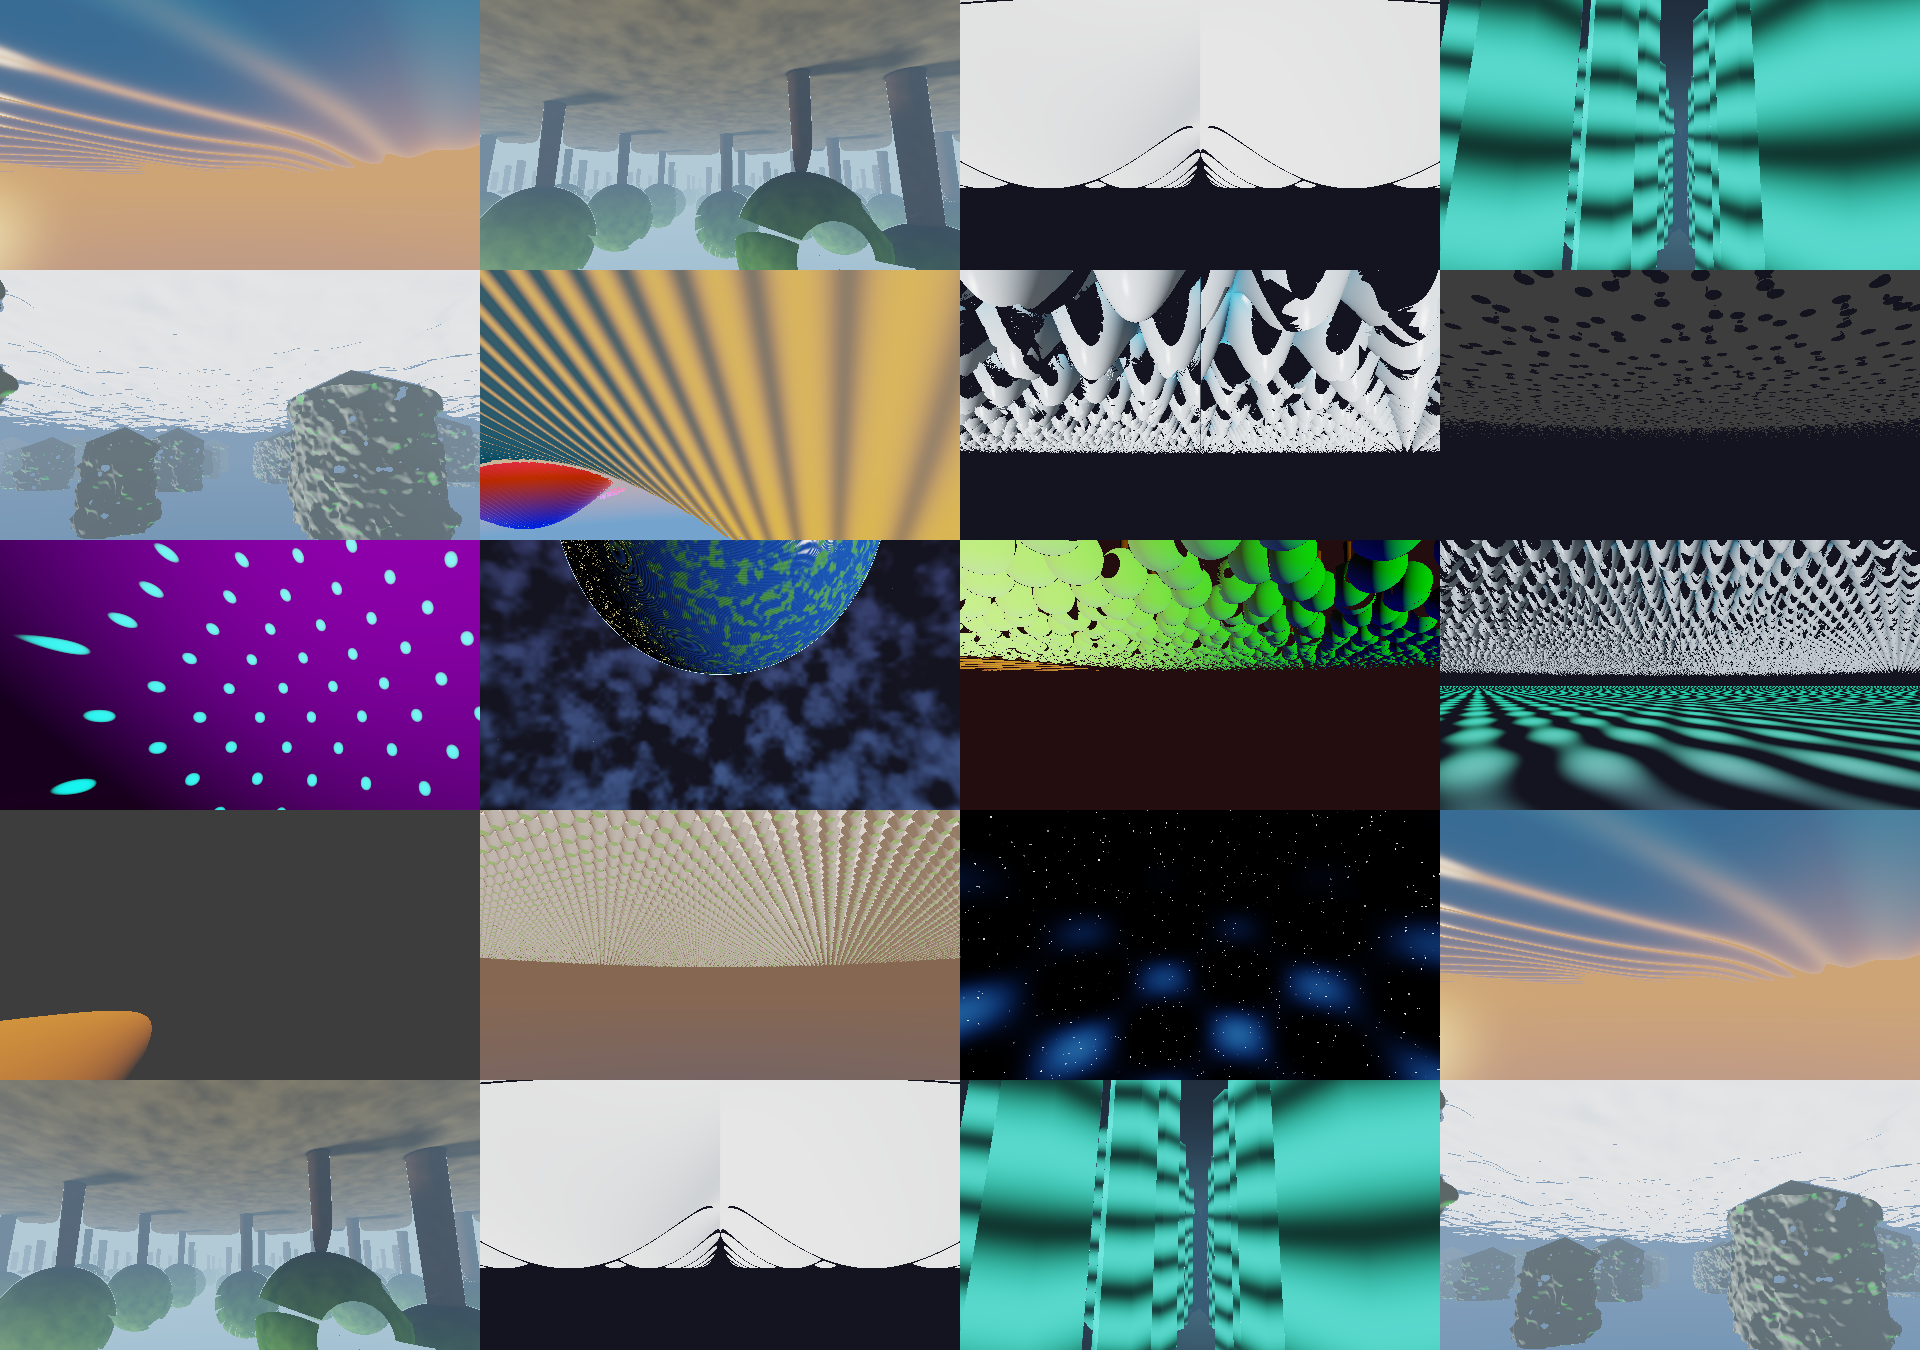
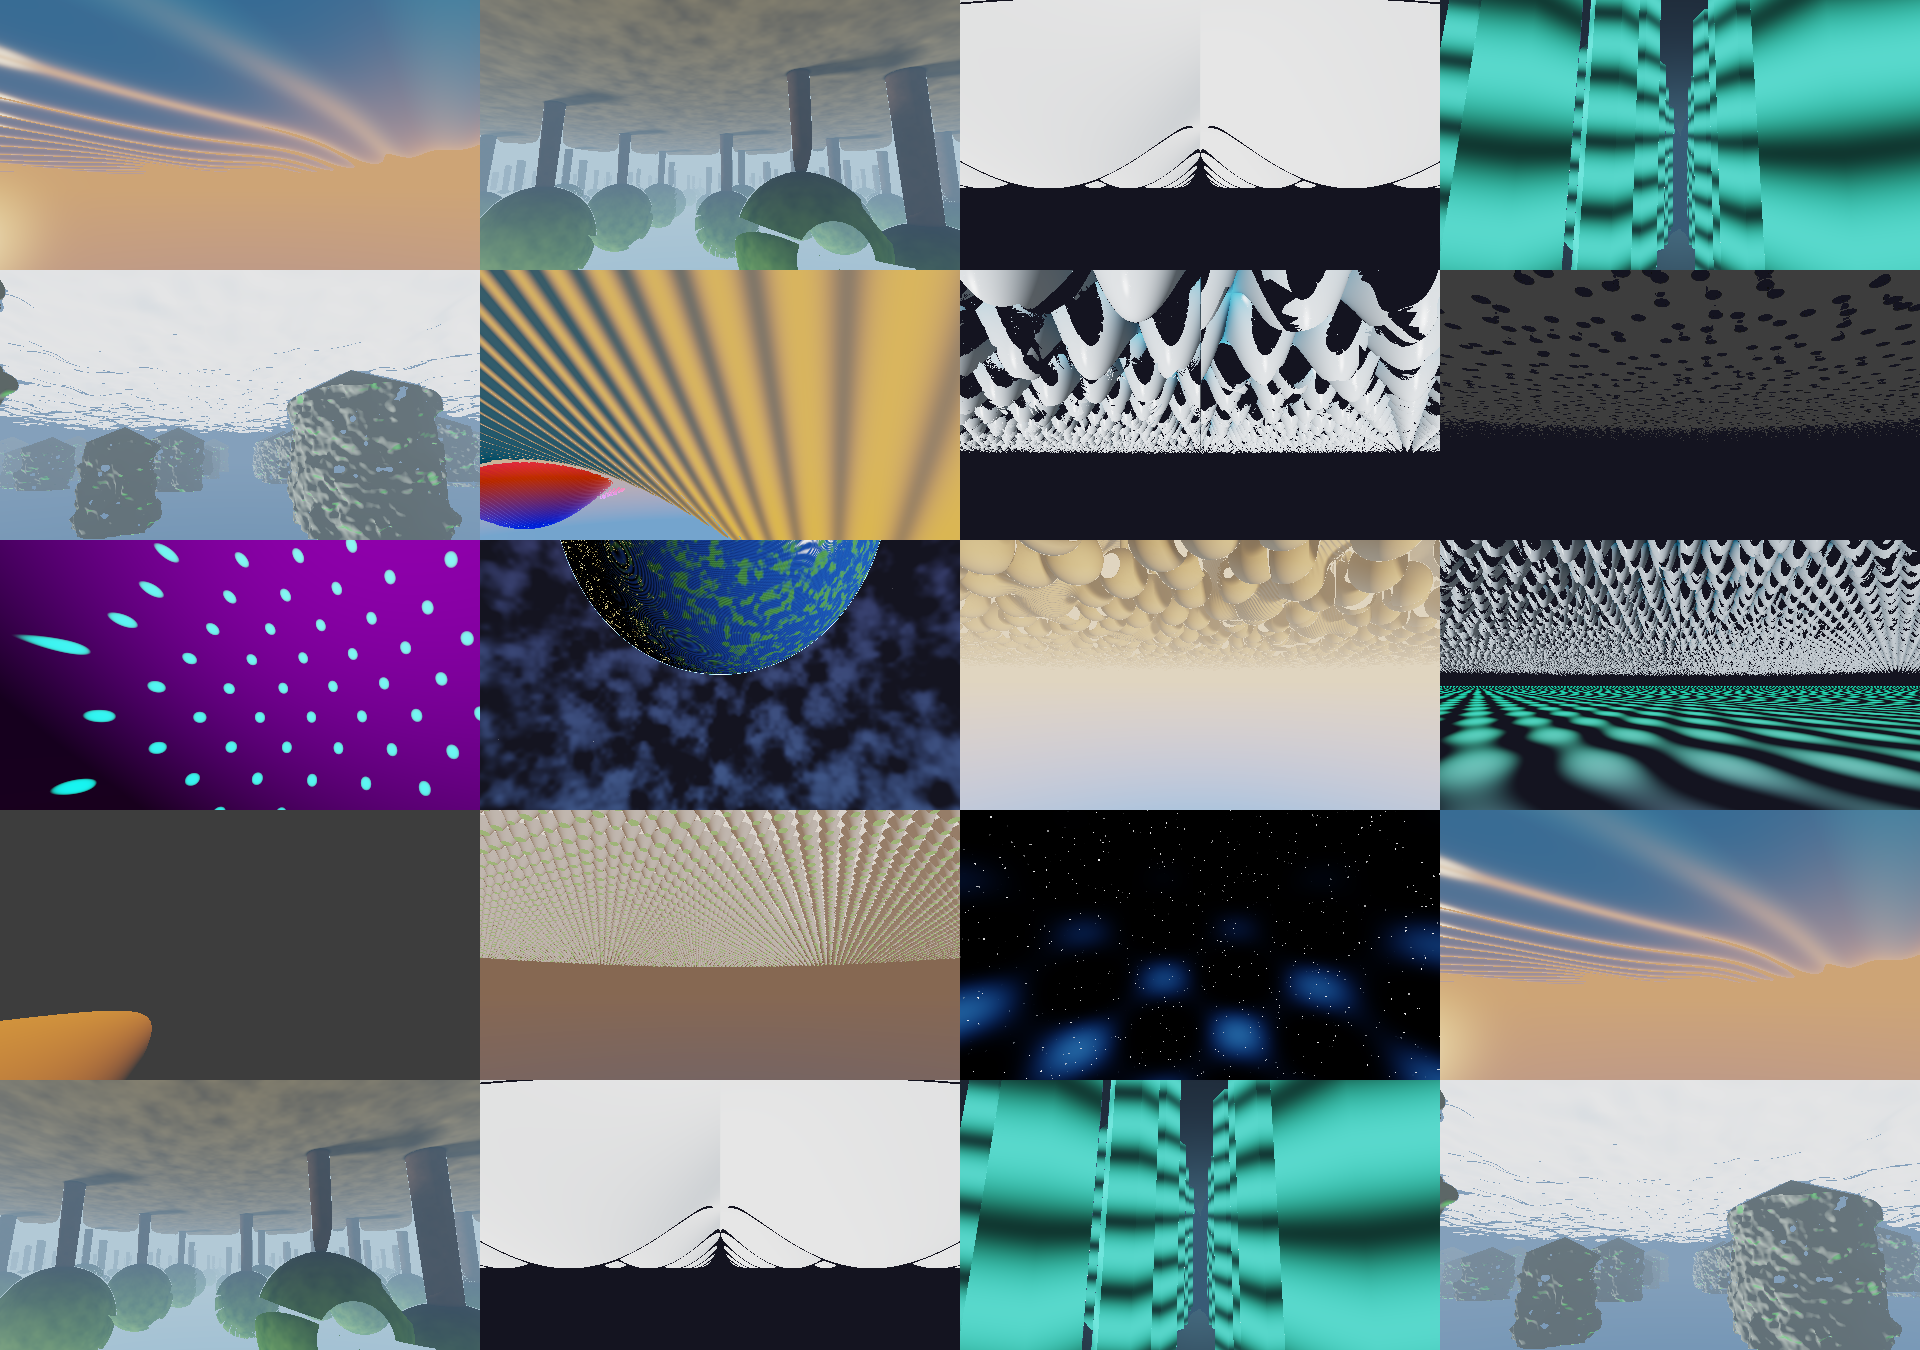
fix(graphics): Fix WGSL syntax error in continental biomes

Changed region(s): [[0.5, 0.3733, 0.75, 0.6222]]

diff --git a/holo_engine/src/client/advanced_scenes.rs b/holo_engine/src/client/advanced_scenes.rs
@@ -636,7 +636,6 @@ fn raymarch_main(@builtin(global_invocation_id) global_id: vec3<u32>) {
         ),
         "continental_biomes" => (
             r#"
-            r#"
             // Cinematic 2: Continental Biomes (Dunes to Rainforest)
             
             // 1. Organic Ecotones (Biome Blending)
